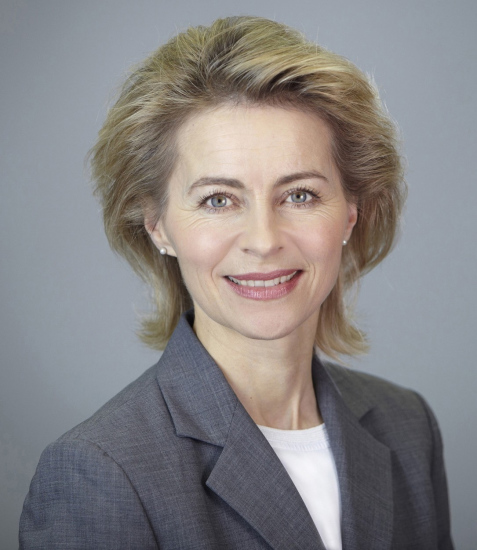
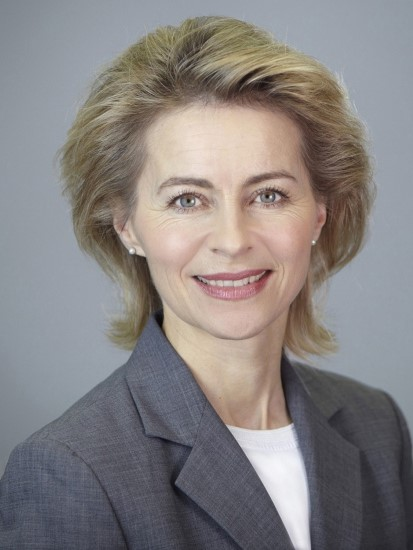
Add files via upload

diff --git a/index.html b/index.html
@@ -302,7 +302,7 @@
       </div>
       <div class="col-lg-3 col-md-6 text-center">
         <div class="service-box mt-5 mx-auto">
-          <img src="img/冯德莱恩2.jpg" style="height: 74%;width: 74%">
+          <img src="img/冯德莱恩2.jpg" style="height: 64%;width: 64%">
           <p>
           <h4 class="mb-3">乌尔苏拉·冯德莱恩<br> Ursula Leyen</h4></p>
           <p class="text-muted mb-0">德国首位女国防部长
@@ -404,7 +404,7 @@
 <footer class="main-footer">
   <div class="container">
     <div class="row">
-      <div class="col-md-8">
+      <div class="col-md-12">
         <div class="logo">
           <h6>关于我们</h6>
         </div>
@@ -416,9 +416,15 @@
             1. WORLD ECONOMIC FORUM（世界经济论坛）《Global Gender Gap Report 2022》
             <br>2.Inter-Parliamentary Union (https://www.ipu.org/)
             <br>3.芬兰国家统计局
-            <br>4.中国妇女报《卢旺达：妇女高参政率与社会地位提升的复杂境况》
-            <br>5.博鳌亚洲论坛《女性|“她力量”主导新政府凸显芬兰女性地位》
-            <br>6.虎嗅《致命女人：拉加德》</p>
+            <br>4.卢旺达国家统计局
+          <br>5.联合国开发计划署《性别不平等指数》
+            <br>6.中国妇女报《卢旺达：妇女高参政率与社会地位提升的复杂境况》
+        <br>7.李洁 & 米雷耶·巴塔穆利扎 & 卡朗瓦·埃瓦里斯特《“末日重建”与走下神坛的女英雄：卢旺达女性领导者的国家—社会处境与应对》
+<br>8.国务院妇女儿童工作委员会《阿联酋对女性教育的投入收效良多》
+          <br>9.阿联酋通讯社《阿联酋在联合国妇女地位会议上强调致力于实现两性平等》
+<br>10.博鳌亚洲论坛《女性|“她力量”主导新政府凸显芬兰女性地位》
+          <br>11.虎嗅《致命女人：拉加德》
+        </p>
 
         </div>
       </div>
